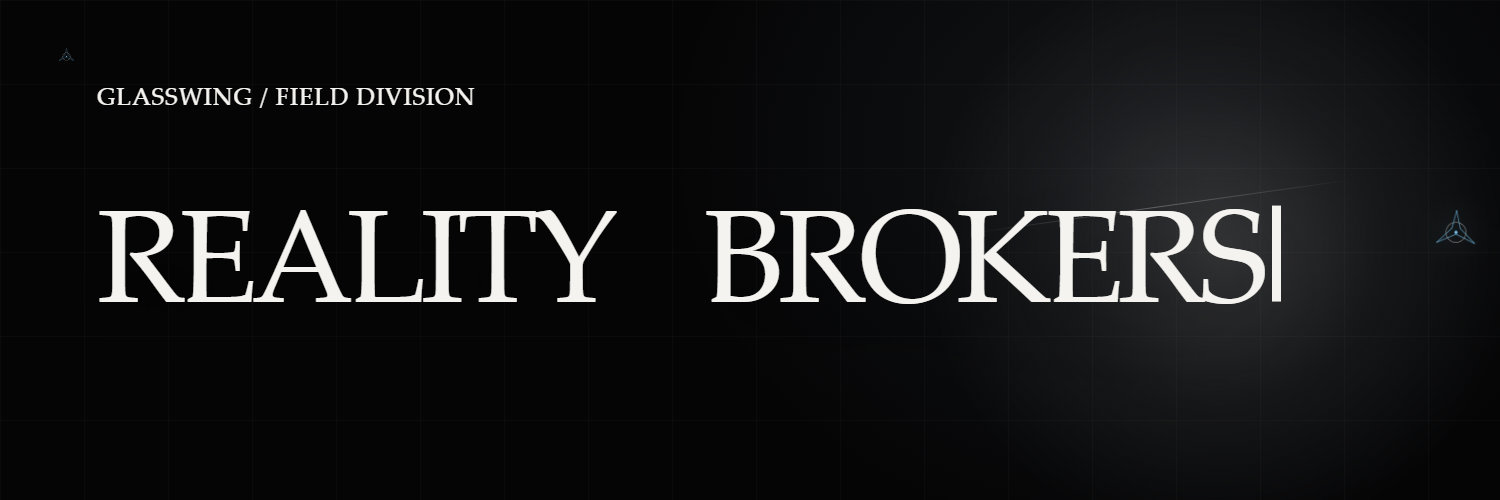
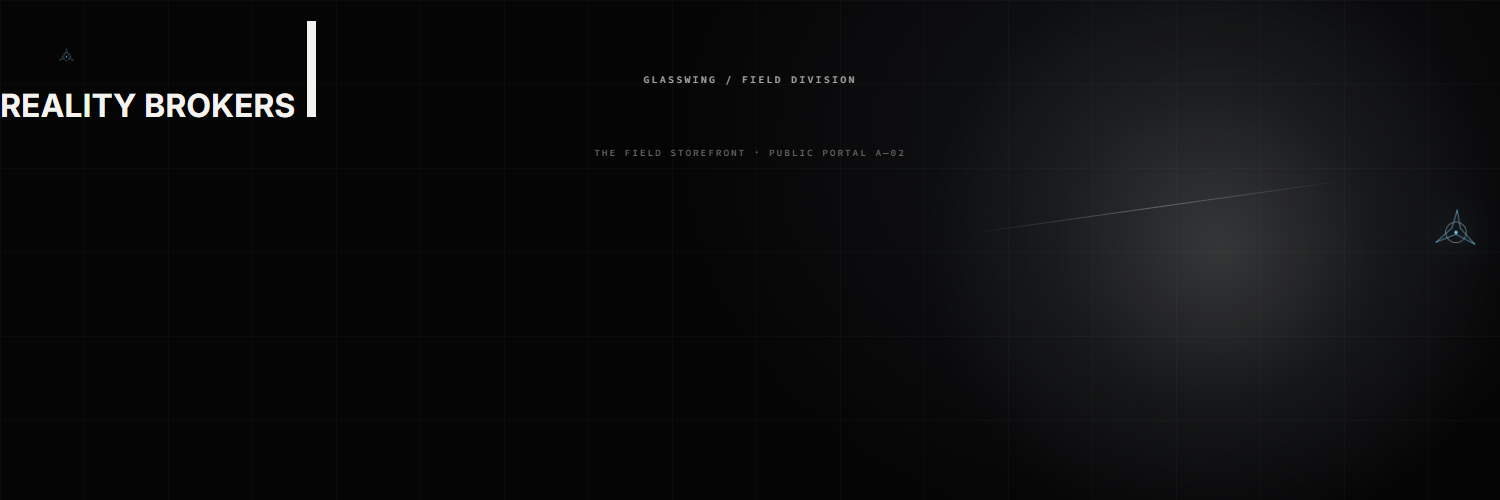
Restore neat top label and THE sub under title

diff --git a/assets/brand/reality-brokers-x-banner.html b/assets/brand/reality-brokers-x-banner.html
@@ -55,23 +55,15 @@
   }
 
   .label {
-    position: absolute; left: 97px; top: 84px; z-index: 5;
-    display: flex; align-items: center; justify-content: flex-start; gap: 12px; margin: 0; 
-    color: #F4F3EF; font: 400 24px/1 var(--display);
-    letter-spacing: .04em; text-transform: uppercase;
-  }
-
-  .center { position: absolute; left: 0; right: 0; top: 50%; transform: translateY(-48%); z-index: 4; }
-  .line { width: 1306px; margin: 0 auto; display: flex; align-items: center; min-height: 128px; }
-  h1 {
-    margin: 0; font: 400 132px/.86 var(--display); letter-spacing: -.055em; word-spacing: 1.02ch; text-transform: uppercase;
-    color: var(--ink); white-space: nowrap;
-    text-shadow: 0 30px 90px rgba(0,0,0,.5);
+    position: absolute; left: 0; right: 0; top: 74px; z-index: 5;
+    display: flex; align-items: center; justify-content: center; gap: 12px; margin: 0;
+    color: var(--muted); font: 600 10px/1.2 var(--mono);
+    letter-spacing: .22em; text-transform: uppercase;
   }
   .cursor { display: inline-block; width: 9px; height: 96px; margin-left: 12px; background: var(--ink); opacity: 0; }
   .cursor.on { opacity: 1; }
   .sub {
-    margin: 22px 0 0 97px; text-align: left; color: var(--dim);
+    margin: 22px 0 0; text-align: center; color: var(--dim);
     font: 500 9.5px/1.4 var(--mono); letter-spacing: .2em; text-transform: uppercase;
     opacity: 0; transition: opacity .5s ease;
   }
@@ -107,6 +99,7 @@
 
   <div class="center">
     <div class="line"><h1><span id="typed"></span><span class="cursor" id="cursor"></span></h1></div>
+    <p class="sub" id="sub">The field storefront · Public portal A—02</p>
   </div>
 
 
@@ -117,6 +110,7 @@
 (function () {
   var text = 'REALITY BROKERS';
   var typed = document.getElementById('typed');
+  var sub = document.getElementById('sub');
   var cursor = document.getElementById('cursor');
   var flash = document.getElementById('flash');
   var start = 0;
@@ -134,6 +128,8 @@
     var typing = t > TYPE_START && t < TYPE_START + TYPE_DUR;
     var blink = Math.floor(t * 2) % 2 === 0;
     cursor.classList.toggle('on', typing || (t < HOLD_END && blink));
+
+    sub.classList.toggle('on', t > TYPE_START + TYPE_DUR + 0.2);
 
     if (t > HOLD_END && t < HOLD_END + FLASH_DUR) {
       var f = (t - HOLD_END) / FLASH_DUR;
